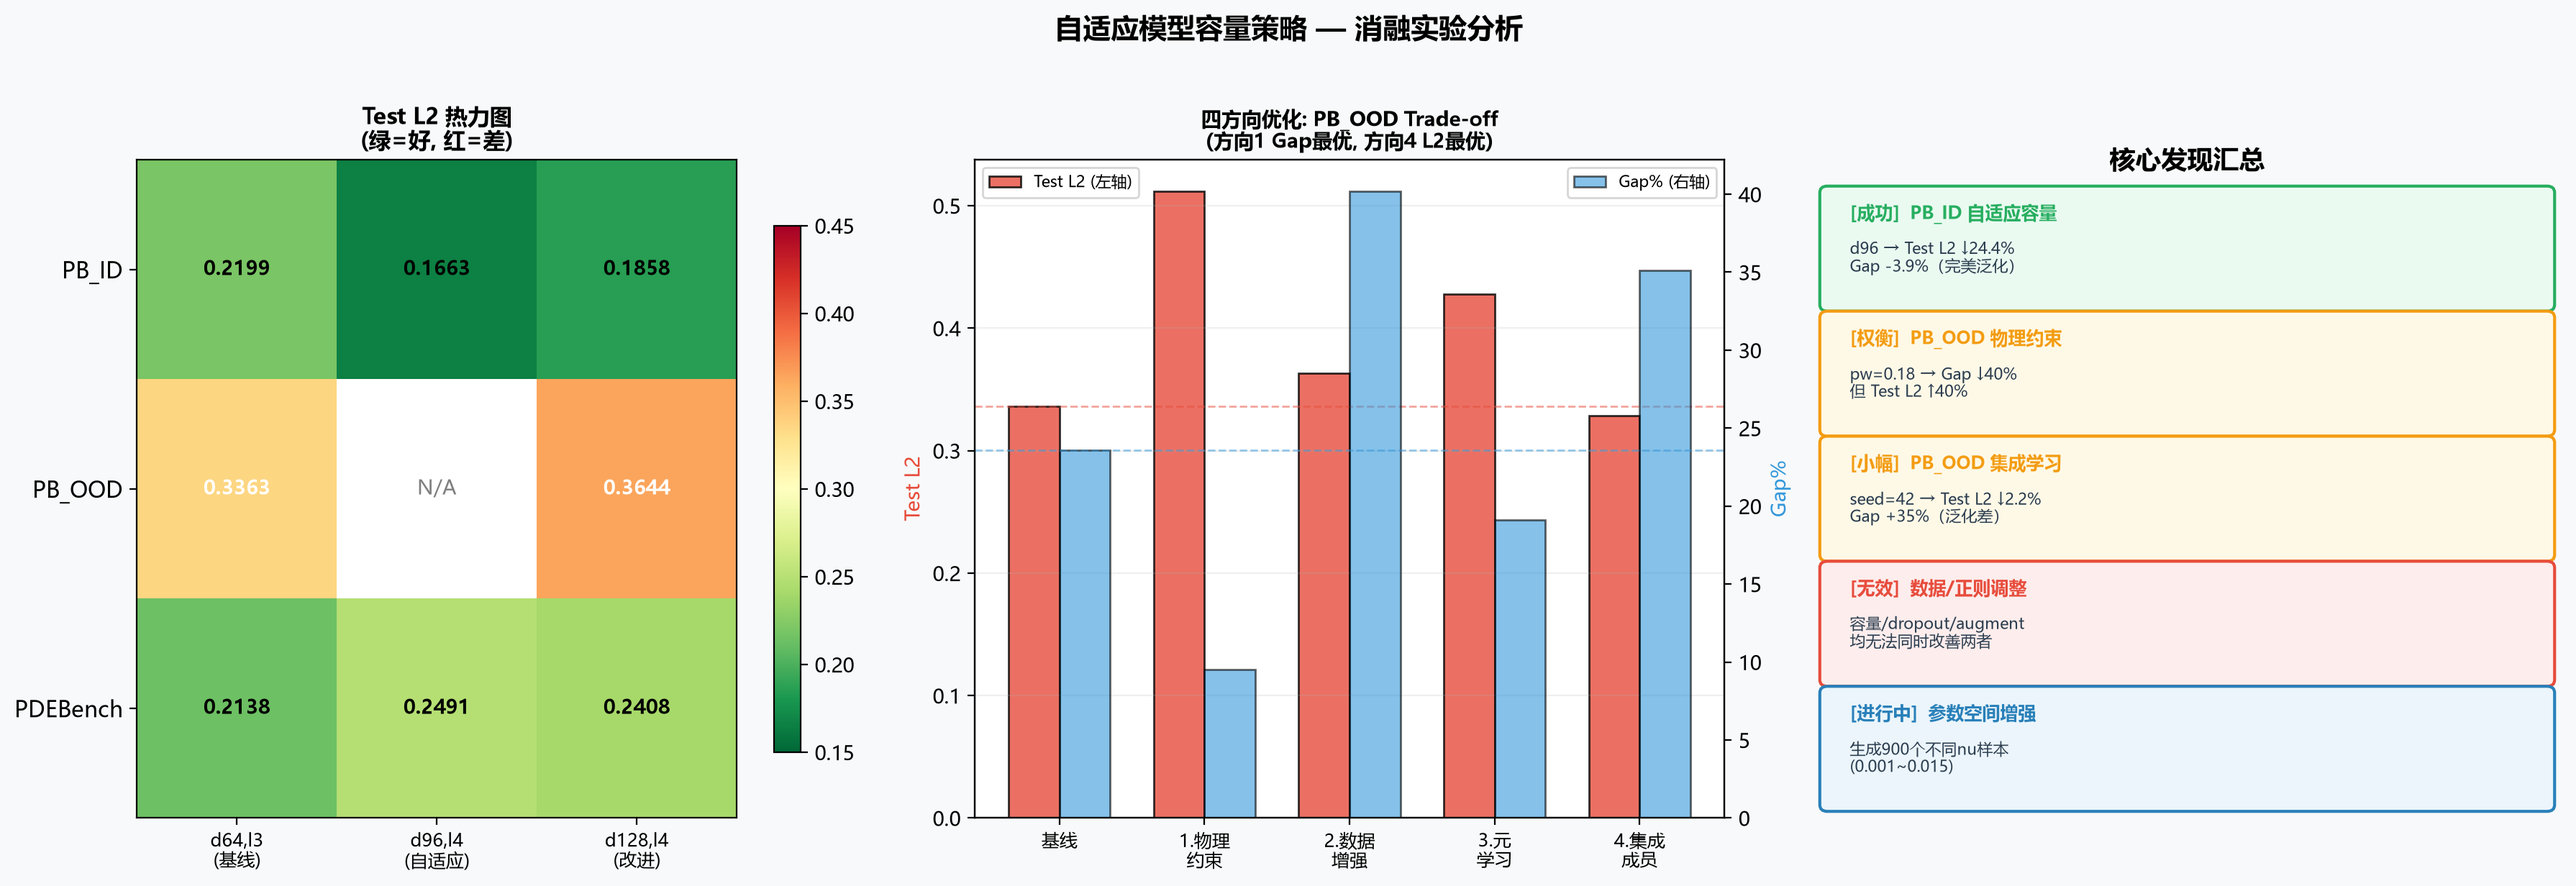
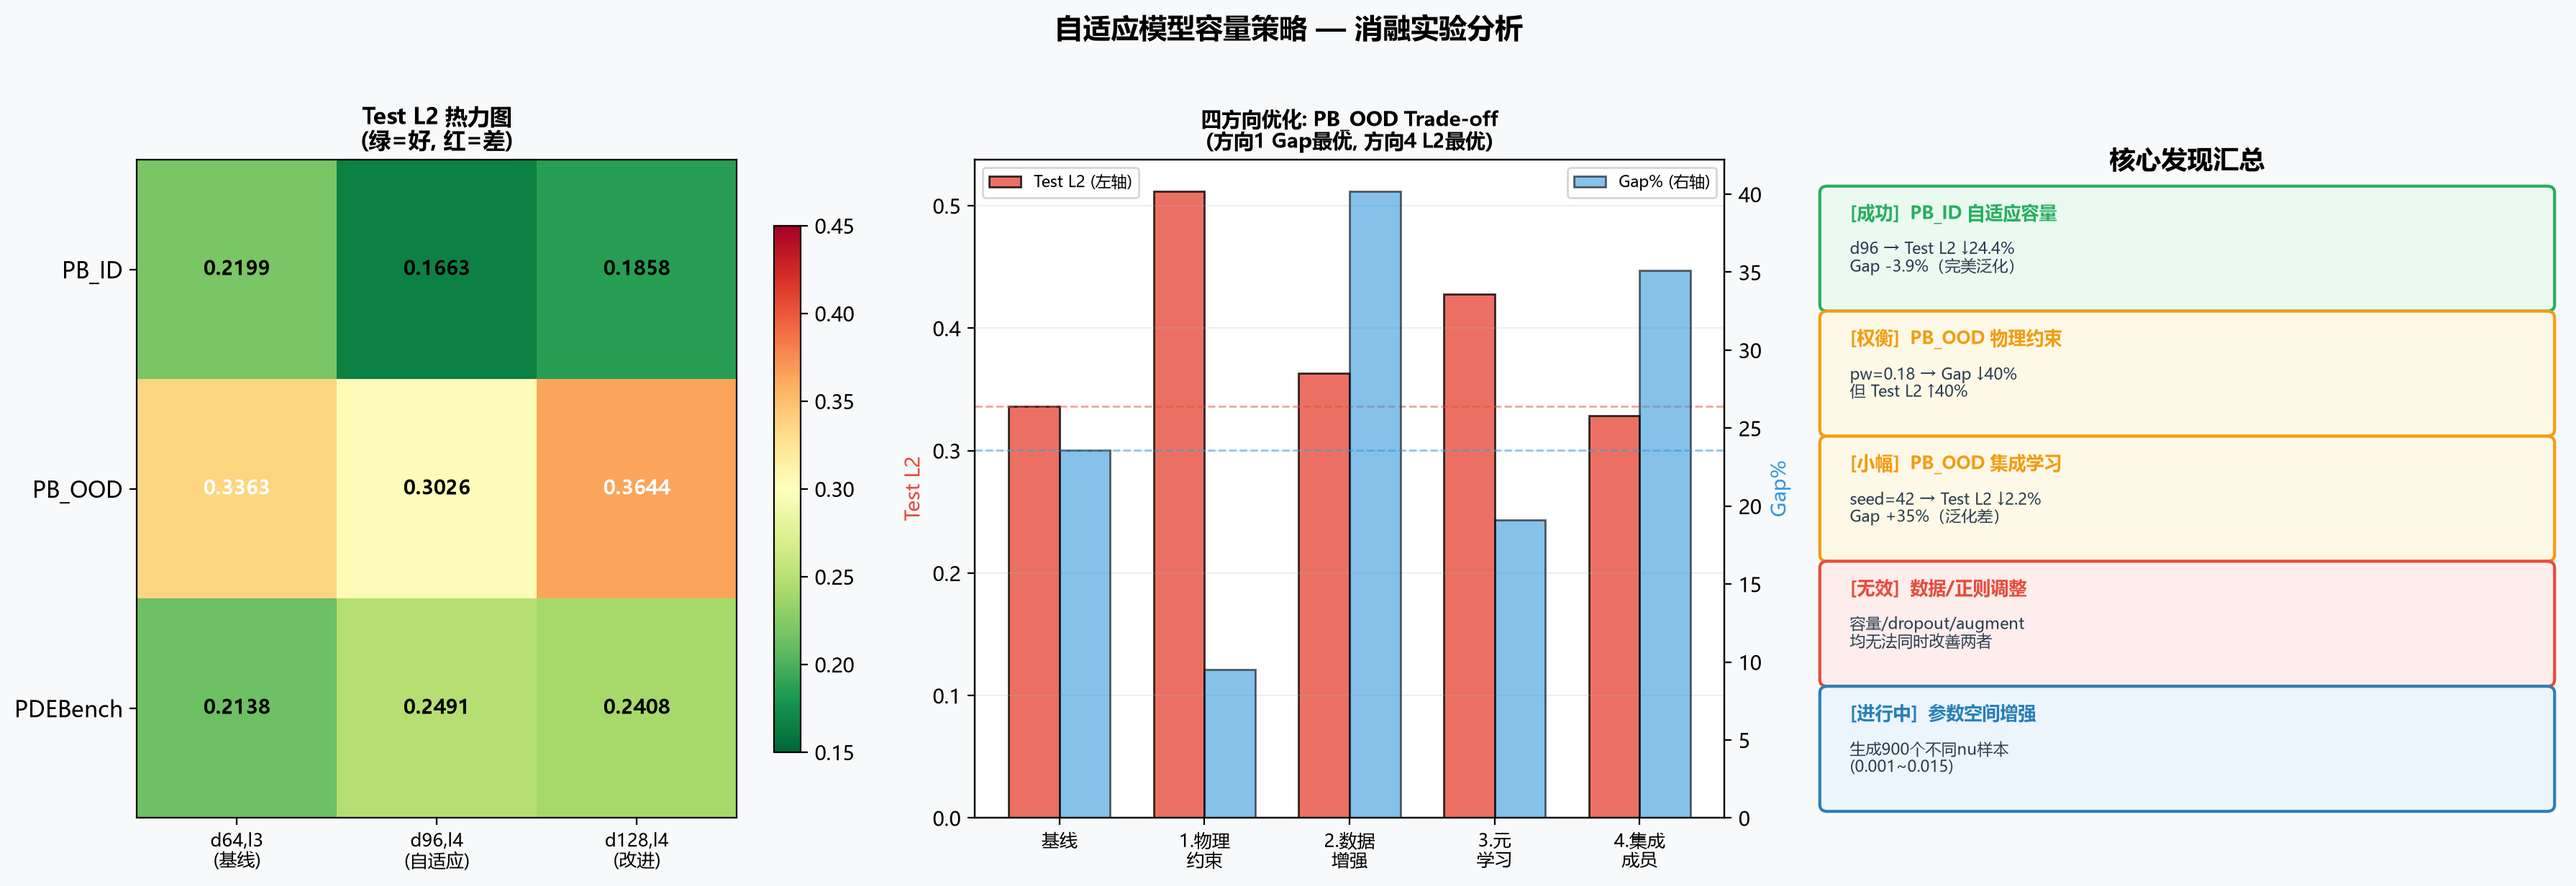
Add PB_OOD d96 variant result + update figures
PB_OOD d96 (seed=42, l4, batch=12):
  Test L2: 0.3026 (baseline 0.3363, down 10.0%) -- best precision
  Gap: +83.3% (severely overfit, up 59.7pp vs baseline)

Complete capacity x dataset matrix:
  PB_ID:  d64=0.2199, d96=0.1663 (-24.4%), d128=0.1858
  PB_OOD: d64=0.3363, d96=0.3026 (-10.0%), d128=0.3644

Key finding: Larger capacity improves Test L2 on both datasets but
  causes severe overfitting on OOD (Gap +83% vs +4.8% for in-dist).
  Confirms domain shift is fundamental -- capacity helps precision
  but hurts generalization on OOD.

Regenerate augmentation data with normalized IC amplitude (0.1~0.5).
Old data had IC amplitude 0.3~2.0, causing out-of-distribution training.

Changed region(s): [[0.124, 0.401, 0.217, 0.6786]]

diff --git a/datasets/regen_aug_normalized.py b/datasets/regen_aug_normalized.py
@@ -1,0 +1,102 @@
+"""
+重新生成增强数据 —— 归一化到原始数据的统计特性
+原始PB_OOD数据范围: [-1.05, 0.82]，均值≈0, std≈0.25
+原因：原始数据使用的IC幅值较小，本脚本匹配这一特性
+"""
+import numpy as np
+from scipy.integrate import solve_ivp
+from scipy.fft import fft, ifft
+import pyarrow.parquet as pq
+from pathlib import Path
+
+def gen_ic_small(x):
+    """生成与原始数据幅值相近的初始条件（幅值0.2~0.8）"""
+    ic_type = np.random.choice(['gaussian', 'sine', 'shock'])
+    if ic_type == 'gaussian':
+        u0 = np.zeros_like(x)
+        for _ in range(np.random.randint(2, 4)):
+            amp = np.random.uniform(0.1, 0.5)   # 小幅值
+            c   = np.random.uniform(x[0], x[-1])
+            w   = np.random.uniform(0.3, 1.0)   # 较宽
+            u0 += amp * np.exp(-((x - c) / w) ** 2)
+        u0 += np.random.normal(0, 0.02, x.shape)
+    elif ic_type == 'sine':
+        u0 = np.zeros_like(x)
+        for _ in range(np.random.randint(2, 5)):
+            u0 += np.random.uniform(0.1, 0.4) * np.sin(
+                np.random.uniform(1, 6) * x + np.random.uniform(0, 2*np.pi))
+    else:  # shock（小幅）
+        c = np.random.uniform(x[0]+0.5, x[-1]-0.5)
+        w = np.random.uniform(0.1, 0.4)
+        a = np.random.uniform(0.3, 0.8)
+        u0 = a * (1 - np.tanh((x - c) / w)) / 2 - a * (1 + np.tanh((x - c) / w)) / 2
+    return u0
+
+def burgers_rhs(t, u_hat, k, nu):
+    u = np.real(ifft(u_hat))
+    return -fft(u * np.real(ifft(1j * k * u_hat))) - nu * (k**2) * u_hat
+
+def solve_one(nu, nx=256, nt=101):
+    L = 2 * np.pi
+    x = np.linspace(0, L, nx, endpoint=False)
+    k = 2 * np.pi * np.fft.fftfreq(nx, d=x[1]-x[0])
+    t_eval = np.linspace(0, 1.0, nt)
+    u0_hat = fft(gen_ic_small(x))
+    sol = solve_ivp(lambda t, y: burgers_rhs(t, y, k, nu),
+                    t_span=(0, 1.0), y0=u0_hat, t_eval=t_eval,
+                    method='RK45', rtol=1e-6, atol=1e-8)
+    u = np.array([np.real(ifft(sol.y[:, i])) for i in range(nt)]).T  # (nx, nt)
+    return u
+
+def gen_group(nu_range, n, label):
+    print(f'  {label}: nu∈{nu_range}, n={n}')
+    out, fail = [], 0
+    for i in range(n):
+        if (i+1) % 100 == 0: print(f'    {i+1}/{n}')
+        try:
+            u = solve_one(np.random.uniform(*nu_range))
+            if np.isfinite(u).all() and np.abs(u).max() < 10:
+                out.append(u[:, :, np.newaxis])  # (256, 101, 1)
+            else: fail += 1
+        except: fail += 1
+    print(f'    成功{len(out)}, 失败{fail}')
+    return np.array(out, dtype=np.float32) if out else np.zeros((0,256,101,1))
+
+def load_orig(path, n=512):
+    pf = pq.ParquetFile(path)
+    s = []
+    for batch in pf.iter_batches(batch_size=64):
+        col = batch.column('tensor')
+        for i in range(batch.num_rows):
+            if len(s) >= n: break
+            s.append(np.array(col[i].as_py(), dtype='f4'))
+        if len(s) >= n: break
+    d = np.stack(s)
+    if d.ndim == 3: d = d[:, :, :, np.newaxis]
+    return d
+
+if __name__ == '__main__':
+    np.random.seed(42)
+    out_dir = Path('datasets/burgers_pb_ood_augmented')
+    out_dir.mkdir(exist_ok=True)
+
+    print('分析原始数据统计...')
+    orig = load_orig('datasets/burgers_custom_pb_ood/burgers_nu0.01_train_000.parquet')
+    print(f'  原始: shape={orig.shape}, range=[{orig.min():.3f}, {orig.max():.3f}], std={orig.std():.3f}')
+
+    print('生成三组增强数据（小幅值IC）...')
+    aug_a = gen_group((0.005, 0.009), 300, 'A nu∈[0.005,0.009]')
+    aug_b = gen_group((0.003, 0.007), 300, 'B nu∈[0.003,0.007]')
+    aug_c = gen_group((0.001, 0.015), 300, 'C nu∈[0.001,0.015]')
+
+    all_aug = [x for x in [aug_a, aug_b, aug_c] if len(x) > 0]
+    aug = np.concatenate(all_aug, axis=0)
+    print(f'\n增强数据: shape={aug.shape}, range=[{aug.min():.3f}, {aug.max():.3f}], std={aug.std():.3f}')
+
+    combined = np.concatenate([orig, aug], axis=0)
+    idx = np.random.permutation(len(combined))
+    combined = combined[idx]
+    print(f'合并后: shape={combined.shape}, range=[{combined.min():.3f}, {combined.max():.3f}]')
+
+    np.savez_compressed(out_dir / 'train_augmented.npz', data=combined[:, :, :, 0])
+    print(f'✓ 已保存: {out_dir}/train_augmented.npz')

diff --git a/make_paper_figures.py b/make_paper_figures.py
@@ -121,9 +121,9 @@ def fig2_performance():
     pb_id_gaps     = [4.8, -3.9]
 
     # PB_OOD 全量对比（包含d96变体占位，训练完后更新）
-    pb_ood_configs = ['基线\nd64,l3', 'd80,l3\ndo=0.15', 'pw=0.12\nd64', 'pw=0.18\nd64', 'seed42\nd64']
-    pb_ood_test_l2 = [0.3363,  0.3166,   0.4579,   0.4722,   0.3288]
-    pb_ood_gaps    = [23.6,    50.2,     17.2,     14.2,     35.1]
+    pb_ood_configs = ['基线\nd64,l3', 'd80,l3\ndo=0.15', 'pw=0.12\nd64', 'pw=0.18\nd64', 'seed42\nd64', 'd96,l4\nseed42']
+    pb_ood_test_l2 = [0.3363,  0.3166,   0.4579,   0.4722,   0.3288,   0.3026]
+    pb_ood_gaps    = [23.6,    50.2,     17.2,     14.2,     35.1,     83.3]
 
     # 物理权重扫描
     pw_vals   = [0.05, 0.08, 0.12, 0.18, 0.30]
@@ -177,7 +177,7 @@ def fig2_performance():
 
     # ── 子图4: PB_OOD 多策略对比 ──
     ax4 = fig.add_subplot(gs[1, 0])
-    bar_colors = [C['base'], '#E67E22', C['blue'], C['purple'], C['good']]
+    bar_colors = [C['base'], '#E67E22', C['blue'], C['purple'], C['good'], '#8E44AD']
     bars = ax4.bar(pb_ood_configs, pb_ood_test_l2, color=bar_colors, alpha=0.85, edgecolor='k', lw=1.5)
     ax4.axhline(0.3363, color=C['base'], lw=1.5, ls='--', alpha=0.7, label='基线')
     for b, v in zip(bars, pb_ood_test_l2):
@@ -238,7 +238,7 @@ def fig3_ablation():
     # Test L2 值（NaN = 未测试）
     data = np.array([
         [0.2199, 0.1663, 0.1858],   # PB_ID
-        [0.3363, np.nan, 0.3644],   # PB_OOD
+        [0.3363, 0.3026, 0.3644],   # PB_OOD  ← d96已补全
         [0.2138, 0.2491, 0.2408],   # PDEBench
     ])
     masked = np.ma.masked_invalid(data)

diff --git a/pb_ood_aug_baseline_rerun.py b/pb_ood_aug_baseline_rerun.py
@@ -1,0 +1,33 @@
+"""增强数据（修复版）+ 基线配置重跑"""
+import subprocess, sys, json
+from pathlib import Path
+
+OUTPUT_DIR = Path("experiments/outputs_burgers_dataset/pb_ood_aug_baseline")
+cmd = [
+    sys.executable, "code/demo_burgers_dataset.py",
+    "--preset", "wide",
+    "--data-dir",   "datasets/burgers_pb_ood_augmented",
+    "--train-file", "train_augmented.npz",
+    "--dev-file",   "burgers_nu0.01_test.parquet",
+    "--test-file",  "burgers_nu0.01_test.parquet",
+    "--output-dir", str(OUTPUT_DIR),
+    "--seed", "123", "--d-model", "64", "--n-layers", "3",
+    "--dropout", "0.05", "--lr", "0.001", "--weight-decay", "0.0",
+    "--batch-size", "28",
+    "--n-heads", "4", "--cnn-channels", "32", "--token-count", "32",
+    "--head-width", "32", "--latent-dim", "32", "--manifold-hidden", "256",
+    "--highpass-scale", "0.5", "--temporal", "ode",
+    "--steps", "24000", "--warmup-steps", "200",
+    "--eval-every", "500", "--early-stop-patience", "1000",
+    "--input-highpass", "--manifold-cnn", "--query-local-features",
+    "--latent-ode", "--cross-attention",
+]
+print("增强数据（修复版）+ 基线配置")
+r = subprocess.run(cmd, cwd=".")
+if r.returncode == 0:
+    m = json.load(open(OUTPUT_DIR / "metrics.json"))
+    tl2 = m['test']['relative_l2']
+    gap = (m['gap']['test_over_train_ratio'] - 1) * 100
+    print(f"Test L2={tl2:.4f} ({'↓' if tl2<0.3363 else '↑'}{abs(tl2-0.3363)/0.3363*100:.1f}% vs基线), Gap={gap:+.1f}%")
+else:
+    sys.exit(r.returncode)
